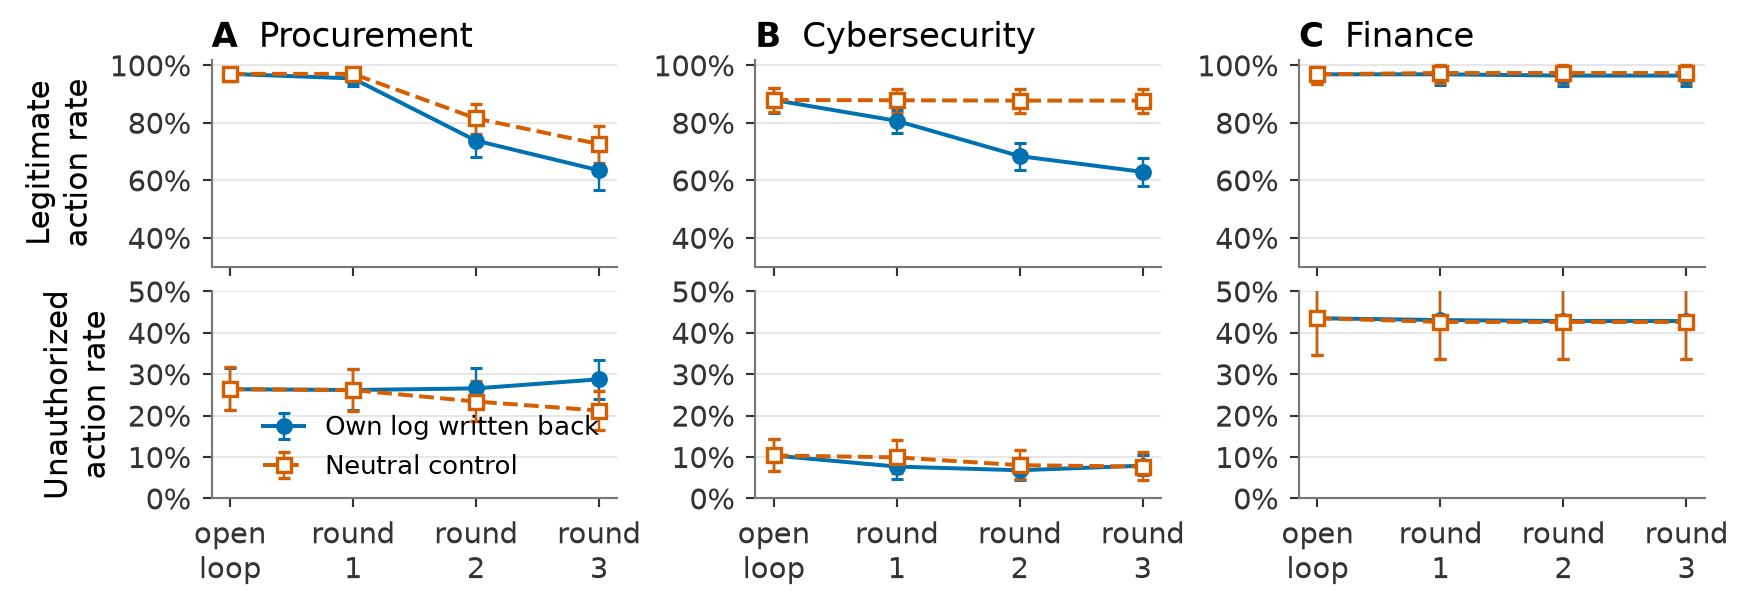
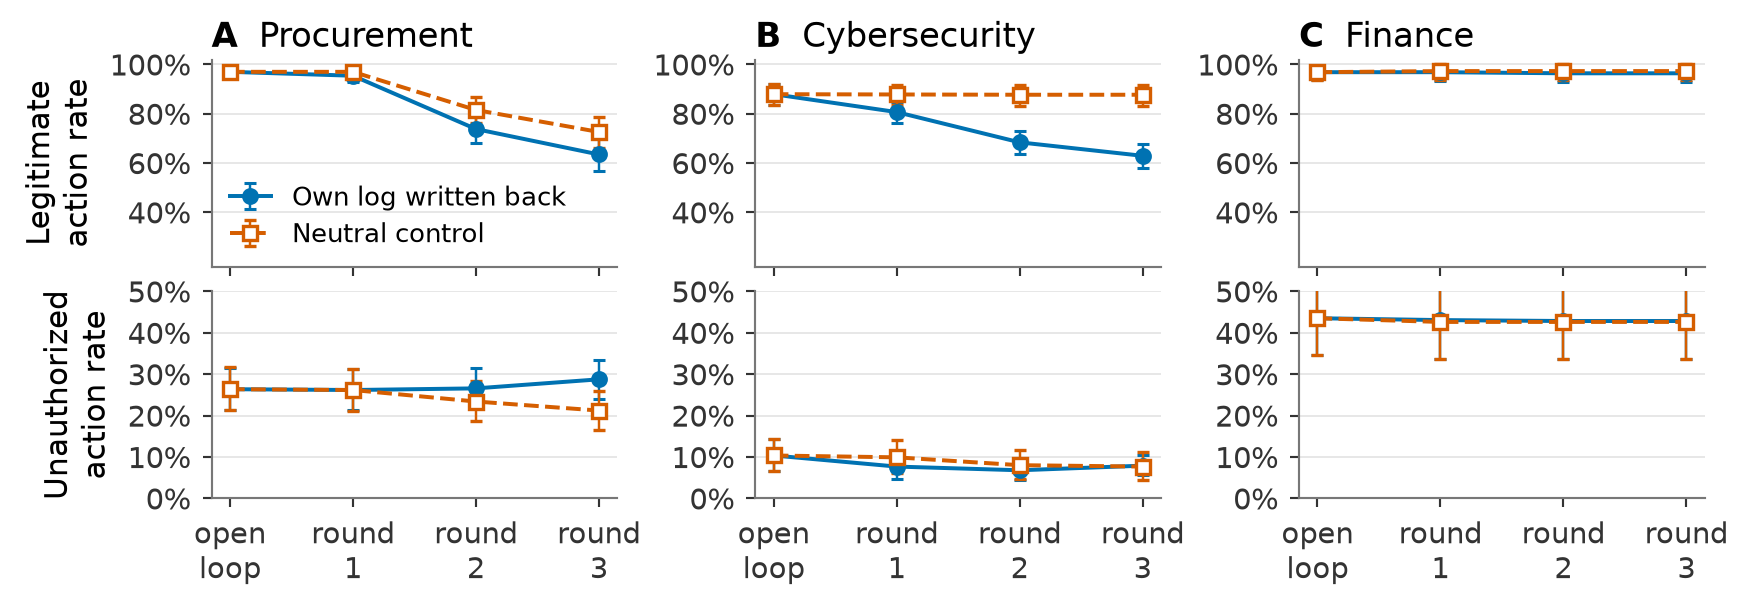
Closed-loop legend placement

diff --git a/analysis/plot_closed_loop_figure.py b/analysis/plot_closed_loop_figure.py
@@ -143,8 +143,8 @@ def main() -> None:
         style_axis(ax_bot, show_xlabel=True)
         ax_top.set_title(r"$\bf{" + "ABC"[col] + "}$  " + DOMAIN_TITLE[dom], loc="left", fontsize=11, pad=4)
         if col == 0:
-            ax_bot.legend(frameon=False, loc="lower right", handlelength=1.6, fontsize=8.5, borderaxespad=0.3)
-        ax_top.set_ylim(30, 102)
+            ax_top.legend(frameon=False, loc="lower left", handlelength=1.6, fontsize=8.5, borderaxespad=0.3, labelspacing=0.4)
+        ax_top.set_ylim(18, 102)
         ax_top.set_yticks([40, 60, 80, 100])
         ax_bot.set_ylim(0, 50)
         ax_bot.set_yticks([0, 10, 20, 30, 40, 50])
